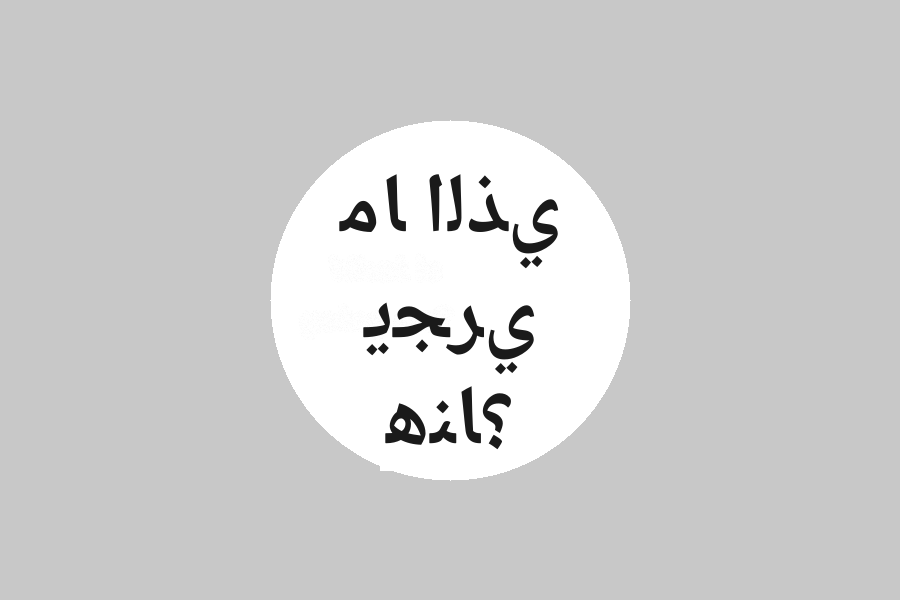
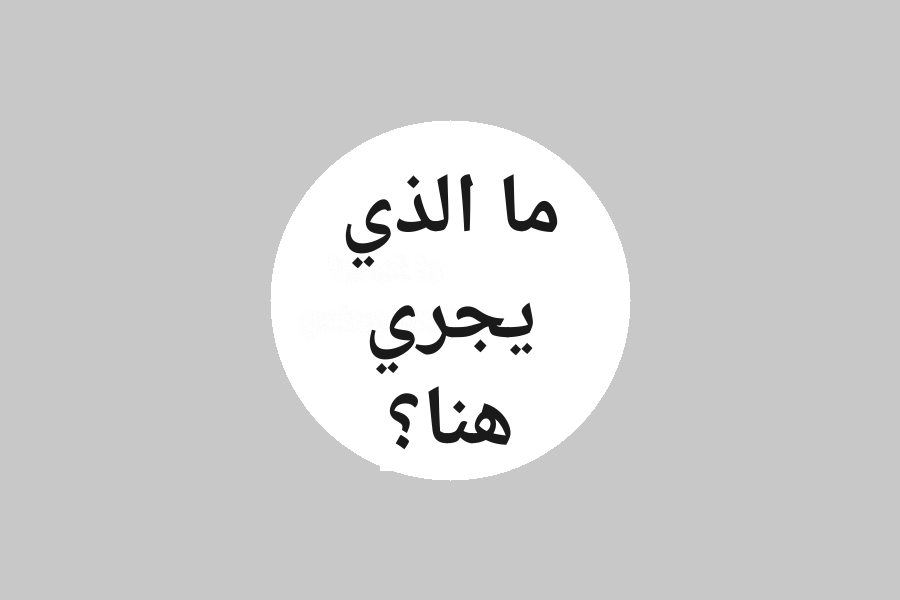
Fix OpenCV medianBlur crash for large kernels in inpainting masking
- app/inpainting/masking.py: Add `_median_blur_safe` helper to handle OpenCV kernel size limits (<16) by emulating larger medians via multiple passes
- app/inpainting/masking.py: Update `build_text_mask` and `uniform_bubble_fill` to use the safe median blur function, preventing crashes on large text regions or bubble ROIs
- .gitignore: Simplify ignore rules to only track `__pycache__/`, removing specific file extensions like `.pyc`, `.env`, and `.vscode/`
- output_test/synth_arabic.png: Replace corrupted binary data with valid base64-encoded PNG content for test fixtures

Changed region(s): [[0.3733, 0.27, 0.6222, 0.45], [0.4044, 0.51, 0.5911, 0.63], [0.4044, 0.63, 0.5911, 0.75]]

diff --git a/app/inpainting/masking.py b/app/inpainting/masking.py
@@ -16,6 +16,27 @@ def _odd(n: int) -> int:
     return n if n % 2 == 1 else n + 1
 
 
+def _median_blur_safe(img: np.ndarray, k: int) -> np.ndarray:
+    """cv2.medianBlur with an OpenCV-safe kernel.
+
+    OpenCV asserts `k < 16` in its optimized 8u median path
+    (median_blur.simd.hpp), so kernels >= 16 crash on large text / big
+    bubble ROIs. Emulate a larger median by applying the maximum legal
+    kernel repeatedly — each pass further removes sparse strokes while
+    preserving smooth gradients, which is exactly what these local
+    background estimates need.
+    """
+    import cv2
+    k = _odd(k)
+    if k <= 15:
+        return cv2.medianBlur(img, k)
+    out = img
+    passes = min(6, (k + 14) // 15)   # approximate the requested smoothing
+    for _ in range(passes):
+        out = cv2.medianBlur(out, 15)
+    return out
+
+
 def build_text_mask(image: np.ndarray, regions: List[TextRegion], *,
                     dilate_px: int = 4,
                     uniform_tolerance: int = 18) -> np.ndarray:
@@ -45,9 +66,10 @@ def build_text_mask(image: np.ndarray, regions: List[TextRegion], *,
         quad_area = float((x1 - x0) * (y1 - y0))
 
         gray = cv2.cvtColor(roi, cv2.COLOR_BGR2GRAY)
-        # kernel sized to the text: bigger for SFX/large text
+        # kernel sized to the text: bigger for SFX/large text (capped &
+        # multi-passed inside _median_blur_safe — OpenCV asserts k < 16)
         k = _odd(max(21, int(0.6 * (r.bbox[3] - r.bbox[1]))))
-        bg_local = cv2.medianBlur(gray, k)
+        bg_local = _median_blur_safe(gray, k)
         diff = cv2.absdiff(gray, bg_local)
         text_px = (diff > 55) & (local_mask > 0)
         local_mask = text_px.astype(np.uint8) * 255
@@ -140,8 +162,9 @@ def uniform_bubble_fill(image: np.ndarray, regions: List[TextRegion],
         if roi.size == 0:
             continue
         # local median background: keeps gradients/shading, drops thin strokes
+        # (kernel may exceed OpenCV's k<16 limit on tall bubbles → safe path)
         k = _odd(max(21, int(0.5 * (y1 - y0))))
-        local_bg_bgr = cv2.medianBlur(roi, k)
+        local_bg_bgr = _median_blur_safe(roi, k)
         poly_mask = np.zeros(roi.shape[:2], dtype=np.uint8)
         shifted = hull_i - np.array([[[x0, y0]]], dtype=np.int32)
         cv2.fillPoly(poly_mask, [shifted], 255)
